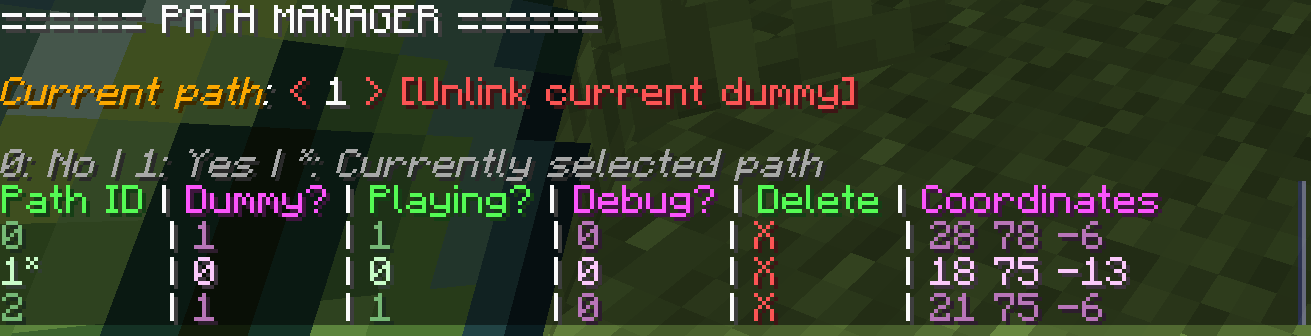
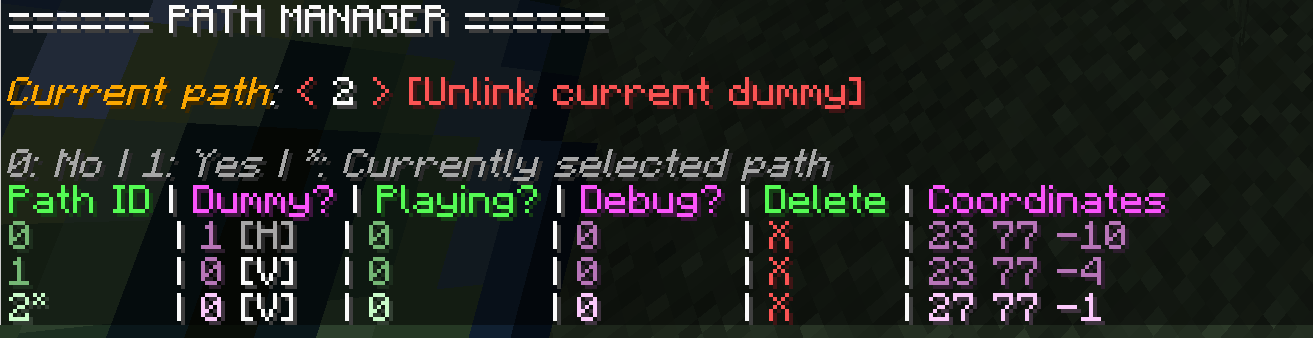
Edit guides

diff --git a/guides/GETTING_STARTED.md b/guides/GETTING_STARTED.md
@@ -56,7 +56,8 @@ You can also click on the values within the table to perform certain actions. Th
 | Column | Description | Functionality when clicked |
 | - | - | - |
 | **Path ID** | Path ID | Quickly selects the path |
-| **Dummy?** | Whether the path has an assigned dummy | Gives the glowing effect to the dummy for 5 seconds |
+| **Dummy?** (Number) | Whether the path has an assigned dummy | Gives the glowing effect to the dummy for 5 seconds |
+| **Dummy?** (V/H) | Whether the dummy is visible (V) or hidden (H) | Show/hide dummy |
 | **Playing?** | Whether the path is currently playing or not | Plays/pauses the path |
 | **Debug?** | Whether the armor stands & labels are visible | Toggles armor stand & label visibility |
 | **Delete** | | Deletes the path |
@@ -74,7 +75,11 @@ An example workflow using these tools may be as follows:
 6. Use the **Next/Previous path tools** or the **path manager UI** to switch to a different path and start another recording
 7. Use the **path manager UI** to play/pause paths whenever needed
 
-## Issues & answers
+## Notes, issues & answers
+
+- **Please note that this datapack hasn't been tested on a multiplayer server yet!**
+
+The datapack should function as intended on a multiplayer server, but some instabilities are expected. In a multiplayer setting, **all admins (i.e. people who have obtained the tools via the relevant command) will be sharing the same set of paths**. Especially, more than one person trying to record the same path at the same time will likely lead to issues, so please make sure to coordinate carefully to prevent this from happening.
 
 - **Right clicks with the tools don't seem to register from time to time.**
 
@@ -83,6 +88,10 @@ Although the datapack has been greatly optimised for the tools to be as responsi
 - **A path doesn't seem to have any dummy attached to it but the path manager UI shows that there is still a dummy.**
 
 Some issues with tags used by the datapack may cause this issue. If the dummy is present in the world, starting the animation will instantly teleport the dummy mob back to the path. Otherwise, the datapack will automatically update the dummy presence status and you will see that it goes back to 0 as expected after stopping and starting the animation.
+
+- **Message feedbacks from using tools are visible to other admins and not just me.**
+
+This is largely intended, as it may help coordinate path management actions better between admins. However, an option to make other admins' messages silent may be added in the future.
 
 - **Things have gone horribly wrong and nothing in the datapack seems to work anymore.**
 

diff --git a/guides/ADVANCED_FEATURES.md b/guides/ADVANCED_FEATURES.md
@@ -40,3 +40,18 @@ All dummies & paths assigned/created by this datapack can be reset (removed) usi
 /function anim_movement:reset
 ```
 
+## Revoke & give admin status
+
+Internally, the datapack assigns all admins (i.e. users who have run the `/function anim_movement:give_controls` command) to the `admin` *team*. This means that it's possible to revoke or give admin status from/to a user independently of the tools. Of course, if a user has access to commands, nothing is stopping them from revoking & giving themselves admin status however many times they'd like. The lack of admin status for the purpose of the datapack just means that you (1) will not see tool usage messages from other admins and (2) will not be able to use the tools yourself.
+
+**To revoke your own admin status**, you can use this command:
+
+```
+/function anim_movement:leave_admin
+```
+
+**To restore your own admin status**, you can use this command:
+
+```
+/function anim_movement:set_admin
+```
